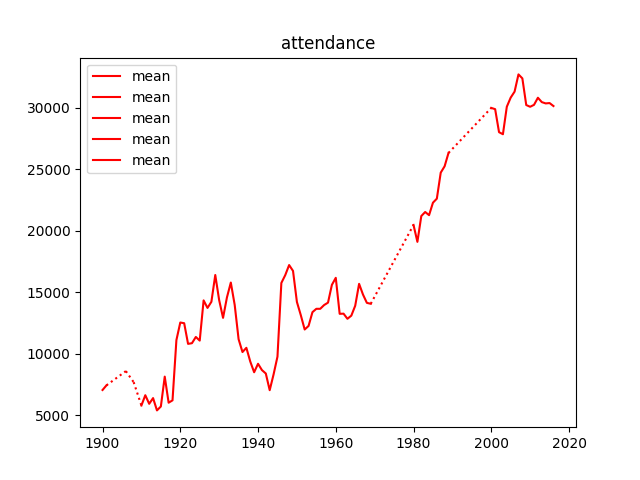
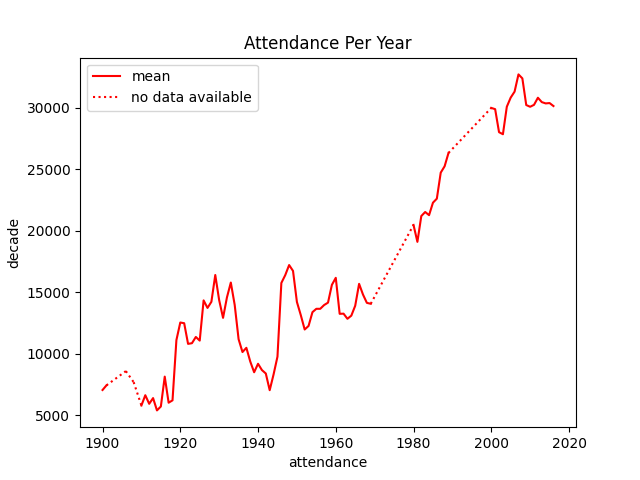
further updates for team lifetimes graphs

diff --git a/final-project/src/plots/score/score_plot.py b/final-project/src/plots/score/score_plot.py
@@ -1,11 +1,12 @@
 import matplotlib.pyplot as plt
+import random
 import pprint
 import numpy as np
 from matplotlib import cm
 
 from src.utils.datastructure_utils import *
 from src.utils.processing_utils import *
-from src.utils.styling_utils import draw_rectangle
+from src.utils.styling_utils import *
 
 from src.utils.logging_config import log
 
@@ -15,11 +16,16 @@ def v_score_count(df):
 
     threshold = df['v_score'].quantile(0.99)
     df = df.drop(df[df['v_score'] > threshold].index)
-    plt.hist2d(df['date_year'], df['v_score'])
+    fig, ax = plt.subplots()
+    ax.hist2d(df['date_year'], df['v_score'], bins=[20, 15])
 
     means_v_score = df.groupby(['date_year'])['v_score'].mean()
-    plt.plot(means_v_score.keys(), means_v_score, color='red', label='mean')
-    plt.title('visiting score')
+    plt_with_disruption(ax, means_v_score.keys(), means_v_score, c='red', label='mean')
+    # plt.plot(means_v_score.keys(), means_v_score, color='red', label='mean')
+
+    ax.set_ylabel('score')
+    ax.set_xlabel('decade')
+    plt.title('Visiting Score')
     plt.legend()
 
 
@@ -28,11 +34,16 @@ def h_score_count(df):
 
     threshold = df['h_score'].quantile(0.99)
     df = df.drop(df[df['h_score'] > threshold].index)
-    plt.hist2d(df['date_year'], df['h_score'])
+
+    fig, ax = plt.subplots()
+    ax.hist2d(df['date_year'], df['h_score'], bins=[20, 15])
 
     means_h_score = df.groupby(['date_year'])['h_score'].mean()
-    plt.plot(means_h_score.keys(), means_h_score, color='red', label='mean')
-    plt.title('home score')
+    plt_with_disruption(ax, means_h_score.keys(), means_h_score, c='red', label='mean')
+
+    ax.set_ylabel('score')
+    ax.set_xlabel('decade')
+    plt.title('Home Score')
     plt.legend()
 
 
@@ -44,12 +55,12 @@ def vh_score_comparison(df):
     fig, ax = plt.subplots()
 
     # Plot the curves on the same graph
-    ax.plot(means_v_score.keys(), means_v_score, label='visiting team score')
-    ax.plot(means_h_score.keys(), means_h_score, label='home team score')
+    plt_with_disruption(ax, means_v_score.keys(), means_v_score, c='#c95604', label='mean - visiting team score')
+    plt_with_disruption(ax, means_h_score.keys(), means_h_score, c='#3904c9', label='mean - home team score')
 
-    ax.set_xlabel('X-axis')
-    ax.set_ylabel('Y-axis')
-    ax.set_title('compare score')
+    ax.set_xlabel('decade')
+    ax.set_ylabel('score')
+    ax.set_title('Home / Visiting Score Comparison')
     ax.legend()
 
 
@@ -110,15 +121,21 @@ def winning_teams(df):
     log.debug('win_stats: %s', pprint.pformat(win_stats))
 
     fig, ax = plt.subplots()
-    ax.set_title('wins per year')
+    # ax.set_title('Wins Per Year')
     for curr_team, win_stats in overall_games_won_per_year.items():
-        ax.set_xlabel('X-axis')
-        ax.set_ylabel('Y-axis')
         if curr_team in highlighted_teams:
-            ax.plot(win_stats.keys(), win_stats.values(), label=highlighted_teams[curr_team])
-            ax.legend()
+            # ax.plot(win_stats.keys(), win_stats.values(), label=highlighted_teams[curr_team])
+            plt_with_disruption(ax, win_stats.keys(), win_stats.values(),
+                                c=get_random_color(), label=highlighted_teams[curr_team], error_label='_nolegend_')
         else:
-            ax.plot(win_stats.keys(), win_stats.values(), c=cm.gray(0.8), alpha=0.2, zorder=-1)
+            # ax.plot(win_stats.keys(), win_stats.values(), c=cm.gray(0.8), alpha=0.2, zorder=-1)
+            plt_with_disruption(ax, win_stats.keys(), win_stats.values(),
+                                c=cm.gray(0.8), alpha=0.2, error_label='_nolegend_')
+
+    plt.title('Wins Per Year')
+    ax.set_ylabel('wins')
+    ax.set_xlabel('decade')
+    plt.legend()
 
 
 def win_ratio_teams(df):

diff --git a/final-project/src/utils/processing_utils.py b/final-project/src/utils/processing_utils.py
@@ -237,17 +237,47 @@ def calc_years_without_data(df):
 
 def calc_team_lifetimes(df):
     team_lifetimes = {}
+    team_duration = {}
+    sorted_teams_by_first_year = {}
 
     group = df.groupby('v_name_translate')
     for curr_team, curr_entry in group.first().iterrows():
         if curr_team not in team_lifetimes:
             team_lifetimes[curr_team] = curr_entry['date_v_duration']
+        if curr_team not in team_duration:
+            team_duration[curr_team] = (curr_entry['date_v_first_year'], curr_entry['date_v_last_year'])
+        if curr_team not in sorted_teams_by_first_year:
+            sorted_teams_by_first_year[curr_team] = curr_entry['date_v_first_year']
 
     group = df.groupby('h_name_translate')
     for curr_team, curr_entry in group.first().iterrows():
         if curr_team not in team_lifetimes:
             team_lifetimes[curr_team] = curr_entry['date_h_duration']
+        if curr_team not in team_duration:
+            team_duration[curr_team] = (curr_entry['date_h_first_year'], curr_entry['date_h_last_year'])
+        if curr_team not in sorted_teams_by_first_year:
+            sorted_teams_by_first_year[curr_team] = curr_entry['date_h_first_year']
+
+    sorted_teams_by_first_year = dict(sorted(sorted_teams_by_first_year.items(), key=lambda x: x[1]))
+
+    active_years_per_team = {}
+    active_teams_per_year = {}
+
+    for curr_team, curr_lifetime in team_duration.items():
+        active_years = np.arange(curr_lifetime[0], curr_lifetime[1] + 1)
+        active_years_per_team[curr_team] = active_years
+        for curr_year in active_years:
+            if curr_year in active_teams_per_year:
+                active_teams_per_year[curr_year] += 1
+            else:
+                active_teams_per_year[curr_year] = 1
+
+    active_teams_per_year = dict(sorted(active_teams_per_year.items()))
 
     return {
-        'team_lifetimes': team_lifetimes
+        'team_lifetimes': team_lifetimes,
+        'team_duration': team_duration,
+        'active_teams_per_year': active_teams_per_year,
+        'active_years_per_team': active_years_per_team,
+        'sorted_teams_by_first_year': sorted_teams_by_first_year,
     }

diff --git a/final-project/src/plots/meta/teams_plot.py b/final-project/src/plots/meta/teams_plot.py
@@ -7,16 +7,39 @@ from src.utils.styling_utils import *
 from src.utils.logging_config import log
 
 
-def team_lifetimes(df):
+def active_teams_per_year(df):
     lifetime_data = calc_team_lifetimes(df)
     log.debug("team_lifetimes: %s", lifetime_data['team_lifetimes'])
 
-    # df = df[df['attendance'].notna()]
-    #
-    # means_v_score = df.groupby(['date_year'])['attendance'].mean().to_dict()
-    # x_vals = list(means_v_score.keys())
-    # plt_with_disruption(plt, x_vals, means_v_score.values(), c='red', label='mean')
-    #
-    # plt.title('attendance')
-    # plt.legend()
-    #
+    fig, ax = plt.subplots()
+
+    active_teams_per_year = lifetime_data['active_teams_per_year']
+    plt_with_disruption(ax, active_teams_per_year.keys(), active_teams_per_year.values())
+
+    ax.set_ylabel('active teams')
+    ax.set_xlabel('decade')
+    plt.title('Active Teams Per Year')
+    plt.legend()
+
+
+def team_lifetimes(df):
+    # TODO implement this: Active teams per year vs. games played
+
+    lifetime_data = calc_team_lifetimes(df)
+    log.debug("team_lifetimes: %s", lifetime_data['team_lifetimes'])
+
+    fig, ax = plt.subplots()
+
+    team_lifetimes = lifetime_data['team_lifetimes']
+    sorted_teams_by_first_year = lifetime_data['sorted_teams_by_first_year']
+
+    for curr_team, curr_first_year in sorted_teams_by_first_year.items():
+        ax.barh(curr_team, width=team_lifetimes[curr_team], left=curr_first_year, color='blue', alpha=0.5)
+
+    active_teams_per_year = lifetime_data['active_teams_per_year']
+    plt_with_disruption(ax, active_teams_per_year.keys(), active_teams_per_year.values())
+
+    ax.set_ylabel('active teams')
+    ax.set_xlabel('decade')
+    plt.title('Active teams per year vs. games played')
+    plt.legend()

diff --git a/final-project/src/utils/styling_utils.py b/final-project/src/utils/styling_utils.py
@@ -1,13 +1,15 @@
 import matplotlib.pyplot as plt
 import numpy as np
 import pandas as pd
+import random
 
 from src.utils.logging_config import log
 
 
 # TODO create custom color pallet etc.
 
-def plt_with_disruption(plt_root, x, y, c='#2b2b2b', alpha=1.0, label='_nolegend_'):
+def plt_with_disruption(plt_root, x, y, c='#2b2b2b', alpha=1.0,
+                        label='_nolegend_', error_label='no data available'):
     x = list(x)
     y = list(y)
     # Find the indices where there are gaps in x-values
@@ -15,7 +17,6 @@ def plt_with_disruption(plt_root, x, y, c='#2b2b2b', alpha=1.0, label='_nolegend
 
     # Plot line segments with dotted lines for connections
     start = 0
-    error_label = 'no data available'
     for idx in indices:
         plt_root.plot(x[start:idx + 1], y[start:idx + 1], c=c, alpha=alpha, label=label)
         plt_root.plot([x[idx], x[idx + 1]], [y[idx], y[idx + 1]], c=c, alpha=alpha, linestyle='dotted',
@@ -69,3 +70,13 @@ def draw_rectangle(block_dim):
     # get current axis instance
     ax = plt.gca()
     ax.add_patch(rect)
+
+
+def get_random_color():
+    return random.choice([
+        '#2e492f',  # dark green
+        '#4d775b',  # light green
+        '#d9c5bb',  # eggshell
+        '#a74c20',  # dark orange
+        '#682f18',  # brown
+    ])

diff --git a/final-project/src/vis_main.py b/final-project/src/vis_main.py
@@ -1,19 +1,18 @@
-from src.utils.graph_data_io import read_game_logs, export_graph
-from src.plots.score import score_plot
 from src.plots.meta import event_plot
 from src.plots.meta import teams_plot
+from src.plots.score import score_plot
+from src.utils.graph_data_io import read_game_logs, export_graph
 
 df = read_game_logs()
 
-# export_graph(score_plot.v_score_count, df)
-# export_graph(score_plot.h_score_count, df)
-# export_graph(score_plot.vh_score_comparison, df)
-# export_graph(score_plot.winning_teams, df)
-#
-# export_graph(event_plot.data_per_year, df)
-# export_graph(event_plot.attendance_per_year, df)
-# export_graph(event_plot.games_per_year_overall, df)
-# export_graph(event_plot.games_per_year_per_team, df)
+export_graph(score_plot.v_score_count, df)
+export_graph(score_plot.h_score_count, df)
+export_graph(score_plot.vh_score_comparison, df)
+export_graph(score_plot.winning_teams, df) # TODO hightlights seem a bit off
 
-# export_graph(event_plot.team_lifetimes, df)
-teams_plot.team_lifetimes(df)
+export_graph(event_plot.data_per_year, df)
+export_graph(event_plot.attendance_per_year, df)
+export_graph(event_plot.games_per_year_per_team, df)
+
+export_graph(teams_plot.active_teams_per_year, df)
+export_graph(teams_plot.team_lifetimes, df)

diff --git a/final-project/src/plots/meta/event_plot.py b/final-project/src/plots/meta/event_plot.py
@@ -12,9 +12,12 @@ def attendance_per_year(df):
 
     means_v_score = df.groupby(['date_year'])['attendance'].mean().to_dict()
     x_vals = list(means_v_score.keys())
-    plt_with_disruption(plt, x_vals, means_v_score.values(), c='red', label='mean')
+    fig, ax = plt.subplots()
+    plt_with_disruption(ax, x_vals, means_v_score.values(), c='red', label='mean')
 
-    plt.title('attendance')
+    ax.set_xlabel('attendance')
+    ax.set_ylabel('decade')
+    plt.title('Attendance Per Year')
     plt.legend()
 
 
@@ -26,18 +29,9 @@ def data_per_year(df):
     ax.set_xlabel('decade')
     ax.set_ylabel('entries per year')
 
-    plt.title("Available Data")
+    plt.title("Available Data / Games Played Per Year")
     plt.legend()
 
-
-def games_per_year_overall(df):
-    data = extract_game_count(df)['games_per_year_overall']
-    log.debug('games_per_year: %s', data)
-    # plt.plot(list(data.keys()), list(data.values()))
-
-    fig, ax = plt.subplots()
-    plt_with_disruption(ax, list(data.keys()), list(data.values()))
-    plot_disruption_warning()
 
 def check_neighbors(array):
     array = list(array)

diff --git a/final-project/src/utils/graph_data_io.py b/final-project/src/utils/graph_data_io.py
@@ -255,6 +255,14 @@ def _append_team_duration(gamelog_df):
     gamelog_df = pd.concat([gamelog_df, gamelog_df['h_name'].map(duration_mapping).rename('date_h_duration')], axis=1)
     gamelog_df = pd.concat([gamelog_df, gamelog_df['v_name'].map(duration_mapping).rename('date_v_duration')], axis=1)
 
+    first_year_mapping = dict(zip(abreviations_df['team'], abreviations_df['first_year']))
+    gamelog_df = pd.concat([gamelog_df, gamelog_df['h_name'].map(first_year_mapping).rename('date_h_first_year')], axis=1)
+    gamelog_df = pd.concat([gamelog_df, gamelog_df['v_name'].map(first_year_mapping).rename('date_v_first_year')], axis=1)
+
+    last_year_mapping = dict(zip(abreviations_df['team'], abreviations_df['last_year']))
+    gamelog_df = pd.concat([gamelog_df, gamelog_df['h_name'].map(last_year_mapping).rename('date_h_last_year')], axis=1)
+    gamelog_df = pd.concat([gamelog_df, gamelog_df['v_name'].map(last_year_mapping).rename('date_v_last_year')], axis=1)
+
     return gamelog_df
 
 
